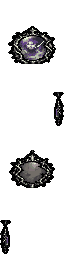
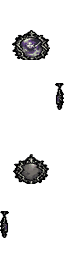
Wall clock and magic mirror hang on the wall, not through it
The clock filled its whole 64px band (y2..64) and the mirror ran out the
bottom (y26..64). LargePaintingObject draws band 0 at drawY-64, so the
clock reached 14px above the wall crest onto the floor behind it, and the
mirror's frame crossed the tile line below.

tools/align_wall_piece.py carries the measurements from vanilla's four
large paintings: front bottom y60, back bottom y56, side slivers flush to
the sheet edge and centred on y32, one uniform factor for the sheet. The
mirror takes vanilla's 30px front; the clock gets 42px, because vanilla's
30 leaves a grandfather clock unreadable and WallObject's face is 46px of
drawable wall.

diff --git a/tools/align_wall_piece.py b/tools/align_wall_piece.py
@@ -1,0 +1,116 @@
+#!/usr/bin/env python3
+"""Ein grosses Wandstueck (64x256) auf Vanillas Gemaelde-Raster ausrichten.
+
+WOZU. `LargePaintingObject` schneidet aus dem 64x256-Blatt vier feste Felder
+und zeichnet sie mit festen Versaetzen. Wer die Kunst frei ins Band malt,
+haengt sie im Spiel neben die Wand: `pos(drawX, drawY-64)` bedeutet, dass
+Inhalt oberhalb von Band-y 16 ueber die Wandkrone hinausragt und auf dem
+Boden dahinter landet -- "halb auf Wand, halb auf Decke".
+
+DIE MASSE, gemessen an paintinglargeabstract/castle/ship/flatgrass:
+
+    Band 0 (y 0..64)    Vorderseite, Wand im Norden   Inhalt y 30..60
+    Band 1 (y 64..128)  Seitenblick Ost               buendig rechts, Mitte y32
+    Band 2 (y 128..192) Rueckseite, Wand im Sueden    Inhalt y 24..56
+    Band 3 (y 192..256) Seitenblick West              buendig links, Mitte y32
+
+Die Wandflaeche selbst ist 48 px hoch (`WallObject` zeichnet drei 16er-Reihen
+ab `drawY-16`), Vanilla nutzt davon nur die unteren 30. Fuer hohe Stuecke --
+eine Standuhr ist keine Postkarte -- darf `--hoehe` bis 46 gehen; darueber
+steht das Stueck wieder auf dem Boden hinter der Wand. Skaliert wird immer
+gleichmaessig, das Blatt wird also nicht verzerrt.
+
+Aufruf:
+    PYTHONPATH=/home/blackoffset/dev/pylib python3 tools/align_wall_piece.py \
+        hauntedwallclock --hoehe 42
+"""
+import argparse
+import os
+
+from PIL import Image
+
+REPO = os.path.dirname(os.path.dirname(os.path.abspath(__file__)))
+PAINTINGS = os.path.join(REPO, "src", "main", "resources", "objects", "paintings")
+
+VANILLA_HEIGHT = 30     # hoechstes Vanilla-Gemaelde (castle), y30..60
+WALL_FACE = 46          # was die Wandflaeche noch traegt
+FRONT_BOTTOM = 60       # Unterkante Band 0 bei Vanilla
+BACK_BOTTOM = 56        # Unterkante Band 2 bei Vanilla
+CENTRE_X = 31           # waagerechte Mitte bei Vanilla (nicht 32)
+
+
+def _clean(art):
+    """LANCZOS laesst beim Verkleinern einen Saum halbdurchsichtiger Pixel."""
+    px = art.load()
+    for y in range(art.height):
+        for x in range(art.width):
+            p = px[x, y]
+            if p[3] < 24:
+                px[x, y] = (0, 0, 0, 0)
+            elif p[3] > 232:
+                px[x, y] = (p[0], p[1], p[2], 255)
+    return art
+
+
+def align(path, height, dry_run=False):
+    im = Image.open(path).convert("RGBA")
+    if im.size != (64, 256):
+        raise SystemExit("%s ist %dx%d, kein grosses Wandblatt" % ((path,) + im.size))
+
+    bands = []
+    for r in range(4):
+        band = im.crop((0, r * 64, 64, r * 64 + 64))
+        bb = band.getbbox()
+        if bb is None:
+            raise SystemExit("Band %d von %s ist leer" % (r, path))
+        bands.append((band, bb))
+
+    # Ein Faktor fuer das ganze Blatt, gesetzt von der Vorderansicht: sonst
+    # passen Vorder-, Rueck- und Seitenansicht nicht mehr zueinander.
+    scale = height / (bands[0][1][3] - bands[0][1][1])
+
+    anchors = [
+        lambda w, h: (CENTRE_X - w // 2, FRONT_BOTTOM - h),
+        lambda w, h: (64 - w, 32 - h // 2),
+        lambda w, h: (CENTRE_X - w // 2, BACK_BOTTOM - h),
+        lambda w, h: (0, 32 - h // 2),
+    ]
+
+    new = Image.new("RGBA", (64, 256), (0, 0, 0, 0))
+    report = []
+    for r, (band, bb) in enumerate(bands):
+        art = band.crop(bb)
+        w = max(1, round(art.width * scale))
+        h = max(1, round(art.height * scale))
+        art = _clean(art.resize((w, h), Image.LANCZOS))
+        cell = Image.new("RGBA", (64, 64), (0, 0, 0, 0))
+        cell.paste(art, anchors[r](w, h), art)
+        new.paste(cell, (0, r * 64))
+        report.append((r, bb, cell.getbbox()))
+
+    if not dry_run:
+        new.save(path)
+    return scale, report
+
+
+def main():
+    ap = argparse.ArgumentParser()
+    ap.add_argument("ids", nargs="+", help="Objekt-IDs unter objects/paintings/")
+    ap.add_argument("--hoehe", type=int, default=VANILLA_HEIGHT,
+                    help="Hoehe der Vorderansicht in px (Vanilla 30, hoechstens %d)" % WALL_FACE)
+    ap.add_argument("--probe", action="store_true", help="nur rechnen, nichts schreiben")
+    args = ap.parse_args()
+    if args.hoehe > WALL_FACE:
+        raise SystemExit("--hoehe %d ragt ueber die Wandkrone (hoechstens %d)"
+                         % (args.hoehe, WALL_FACE))
+
+    for oid in args.ids:
+        path = os.path.join(PAINTINGS, oid + ".png")
+        scale, report = align(path, args.hoehe, args.probe)
+        print("%s  Faktor %.3f%s" % (oid, scale, "  (Probe)" if args.probe else ""))
+        for r, was, ist in report:
+            print("   Band %d  %s -> %s" % (r, was, ist))
+
+
+if __name__ == "__main__":
+    main()
